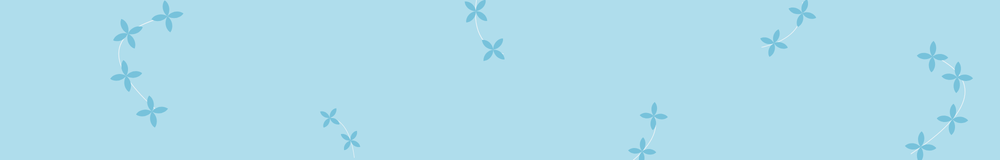
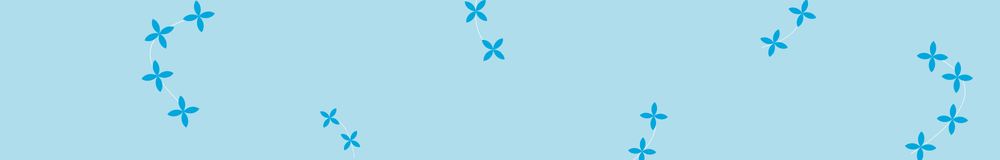
style: change color palette

diff --git a/src/components/Header/TopBar/AuthButtons/AuthButtons.module.css b/src/components/Header/TopBar/AuthButtons/AuthButtons.module.css
@@ -12,16 +12,16 @@
   font-size: 20px;
 
   border-radius: 500px;
+
+  color: var(--color-text);
 }
 
 .loginButton {
   border: 0;
-  background: var(--color-secondary);
-  color: var(--color-text);
+  background: var(--color-white);
 }
 
 .signupButton {
-  border: solid var(--color-secondary) 2px;
-  background: var(--color-primary);
-  color: var(--color-secondary);
+  border: solid var(--color-white) 2px;
+  background: transparent;
 }

diff --git a/src/index.css b/src/index.css
@@ -10,7 +10,7 @@
   src: url('./assets/fonts/Roboto-Bold.ttf') format('truetype');
   font-weight: 600;
   font-style: bold;
-} 
+}
 
 body {
   color: var(--color-text);
@@ -28,7 +28,13 @@ select {
   color: inherit;
 }
 
+html {
+  width: 100%;
+  height: 100%;
+}
+
 body {
+  background-color: var(--color-tertiary);
   width: 100%;
   height: 100%;
 }

diff --git a/src/components/Header/Header.module.css b/src/components/Header/Header.module.css
@@ -3,14 +3,13 @@
 
   background-image: url('@images/header/background.png');
 
-  /* ajusta a altura da imagem para a altura do header */
   background-size: auto 100%;
 
-  /* repete horizontalmente */
   background-repeat: repeat-x;
 
   background-position: left top;
 
   display: flex;
   flex-direction: column;
+  width: 100%;
 }

diff --git a/src/styles/variables.css b/src/styles/variables.css
@@ -1,6 +1,9 @@
 :root {
   --color-primary: #afddec;
-  --color-secondary: #f2f5f7;
+  --color-secondary: #00a7dd;
+  --color-tertiary: #e8fdff;
 
-  --color-text: #545454;
+  --color-white: #f2f5f7;
+
+  --color-text: #334a52;
 }

diff --git a/src/styles/effects.module.css b/src/styles/effects.module.css
@@ -1,6 +1,3 @@
 .shadow {
-  filter: drop-shadow(
-    0px /* deslocamento X */ 4px /* deslocamento Y */ 8px /* blur */
-      rgba(0, 0, 0, 0.2)
-  );
+  filter: drop-shadow(0px 4px 8px rgba(0, 0, 0, 0.2));
 }

diff --git a/src/components/Header/TopBar/SearchBar/SearchBar.module.css b/src/components/Header/TopBar/SearchBar/SearchBar.module.css
@@ -6,7 +6,7 @@
   width: 100%;
   max-width: 700px;
 
-  background-color: var(--color-secondary);
+  background-color: var(--color-white);
   border-radius: 500px;
 }
 

diff --git a/src/components/Header/TopBar/LogoButton/LogoButton.module.css b/src/components/Header/TopBar/LogoButton/LogoButton.module.css
@@ -1,4 +1,4 @@
 .logo {
   height: 80px;
-  aspect-ratio: 220 / 178;
+  aspect-ratio: 250 / 203;
 }

diff --git a/src/components/Header/NavBar/NavBar.module.css b/src/components/Header/NavBar/NavBar.module.css
@@ -11,7 +11,7 @@
 }
 
 .imgButton {
-  height: 80%;
+  height: 90%;
 }
 
 .textButton {
